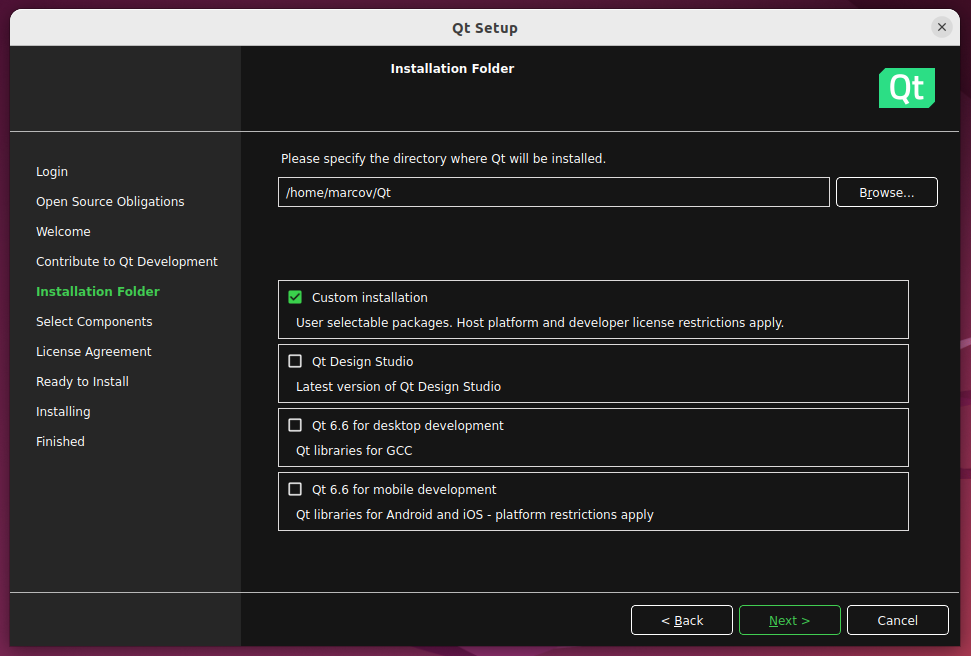
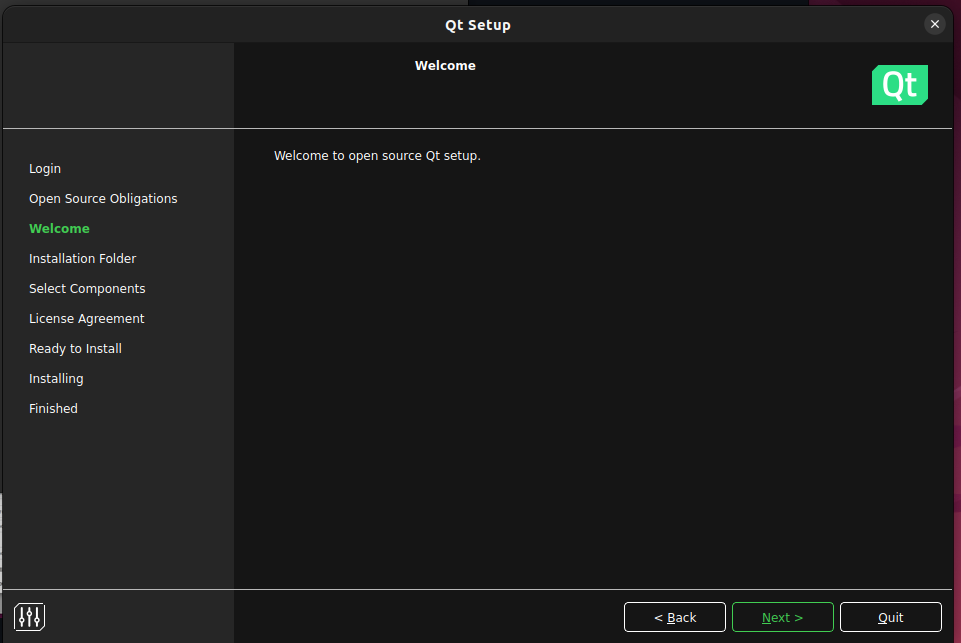
amos

diff --git a/README.md b/README.md
@@ -5,7 +5,7 @@
 
 In this tutorial we will go over how to install an Open Source instance of Qt, develop a simple aplication and ship it to different users with different OSs!
 
-This is an easy example on how to deploy an app as fast as possible. So the easiest method will always be chosen. For example you could `sudo apt install qt6-base-dev` and then link everything, but this would make it more complicated.
+This is an easy example on how to deploy an app as fast as possible. So the easiest and cleanest method will always be chosen.
 
 I will provide the specific instructions for:
 - Windows 10
@@ -37,7 +37,7 @@ sudo apt install libxcb-xinerama0 libxcb-cursor0
 ```
 
 
-Then right click on the .run file and Allow executing file as a program:
+Then right click on the downloaded .run file and Allow executing file as a program:
 
 <p align="center">
     <img src="https://github.com/Hanqaqa/QtTests/blob/master/Assets/Screens/QtUbuntuExecute.PNG" width="40%">
@@ -70,10 +70,32 @@ Tl;dr: if you use the Open Source license, using Qt is free as long as you also 
 
 Click Next on the Welcome to open source setup screen.
 
-Allow or disable sending usage statistics to Qt.
-
-Choose the Custom installation
-
 <p align="center">
     <img src="https://github.com/Hanqaqa/QtTests/blob/master/Assets/Screens/QtInstall3.PNG" width="40%">
+</p>
+
+Allow or disable sending usage statistics to Qt.
+
+<p align="center">
+    <img src="https://github.com/Hanqaqa/QtTests/blob/master/Assets/Screens/QtInstall4.PNG" width="40%">
+</p>
+
+Choose Qt 6.6 for desktop development. This will install the latest version of Qt Design Studio, QtCreator and the latest release Qt libraries (6.6.1 as of January 2024).
+
+If you want to install another version of the libraries or plan to do Android or Automotive choose Custom installation
+
+<p align="center">
+    <img src="https://github.com/Hanqaqa/QtTests/blob/master/Assets/Screens/QtInstall5.PNG" width="40%">
+</p>
+
+Accept the Qt license and click Install. If you only chose Qt 6.6 for desktop development the download will be approximately of 1.4GB.
+
+<p align="center">
+    <img src="https://github.com/Hanqaqa/QtTests/blob/master/Assets/Screens/QtInstall6.PNG" width="40%">
+</p>
+
+Wait for the installation
+
+<p align="center">
+    <img src="https://github.com/Hanqaqa/QtTests/blob/master/Assets/Screens/QtInstall7.PNG" width="40%">
 </p>
